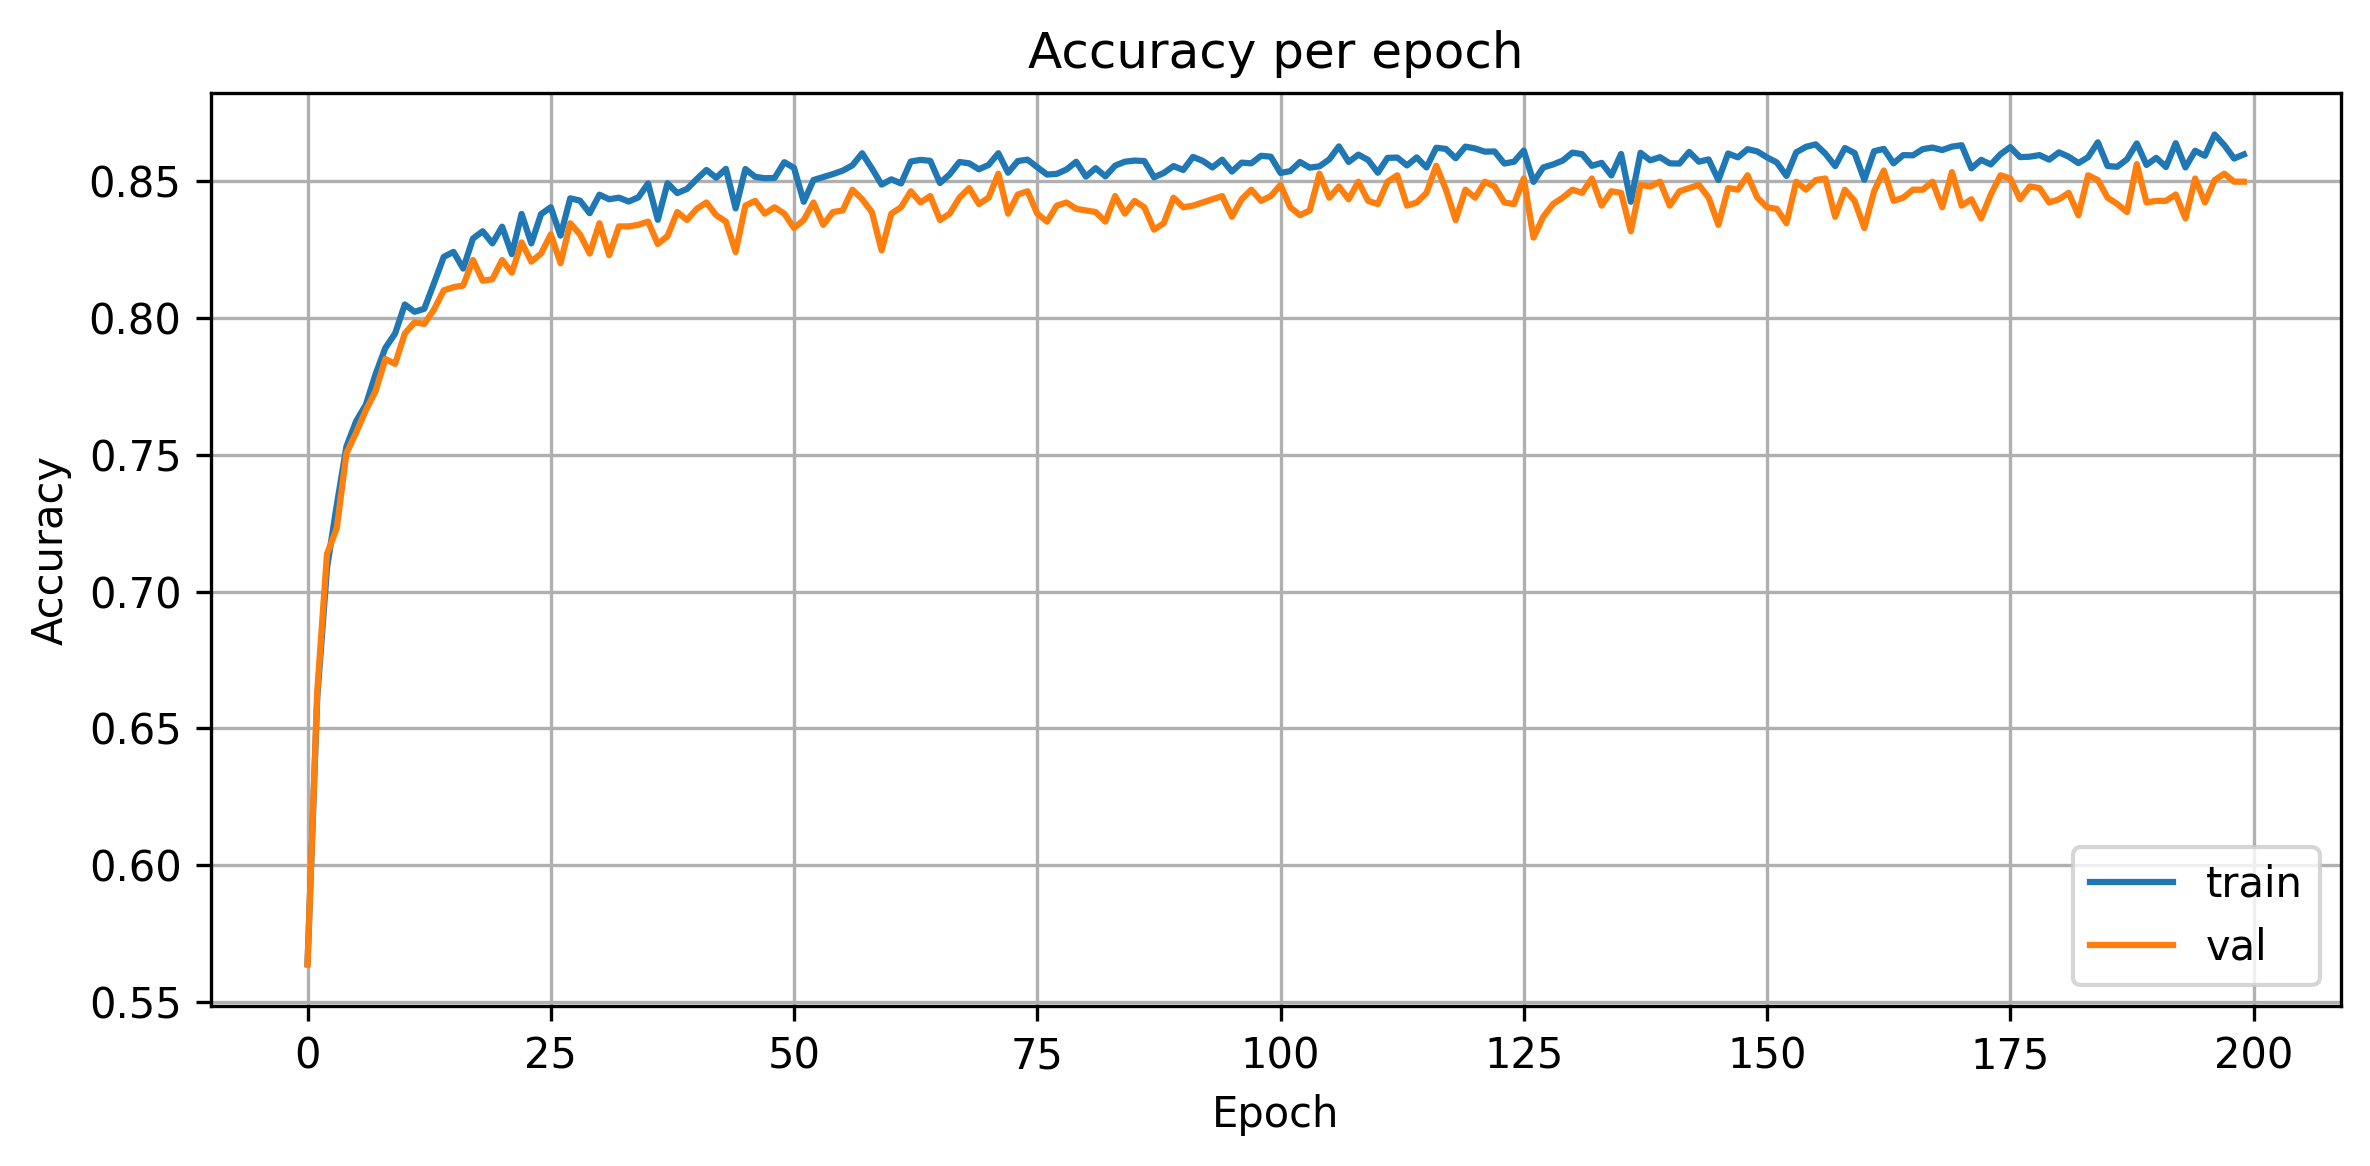
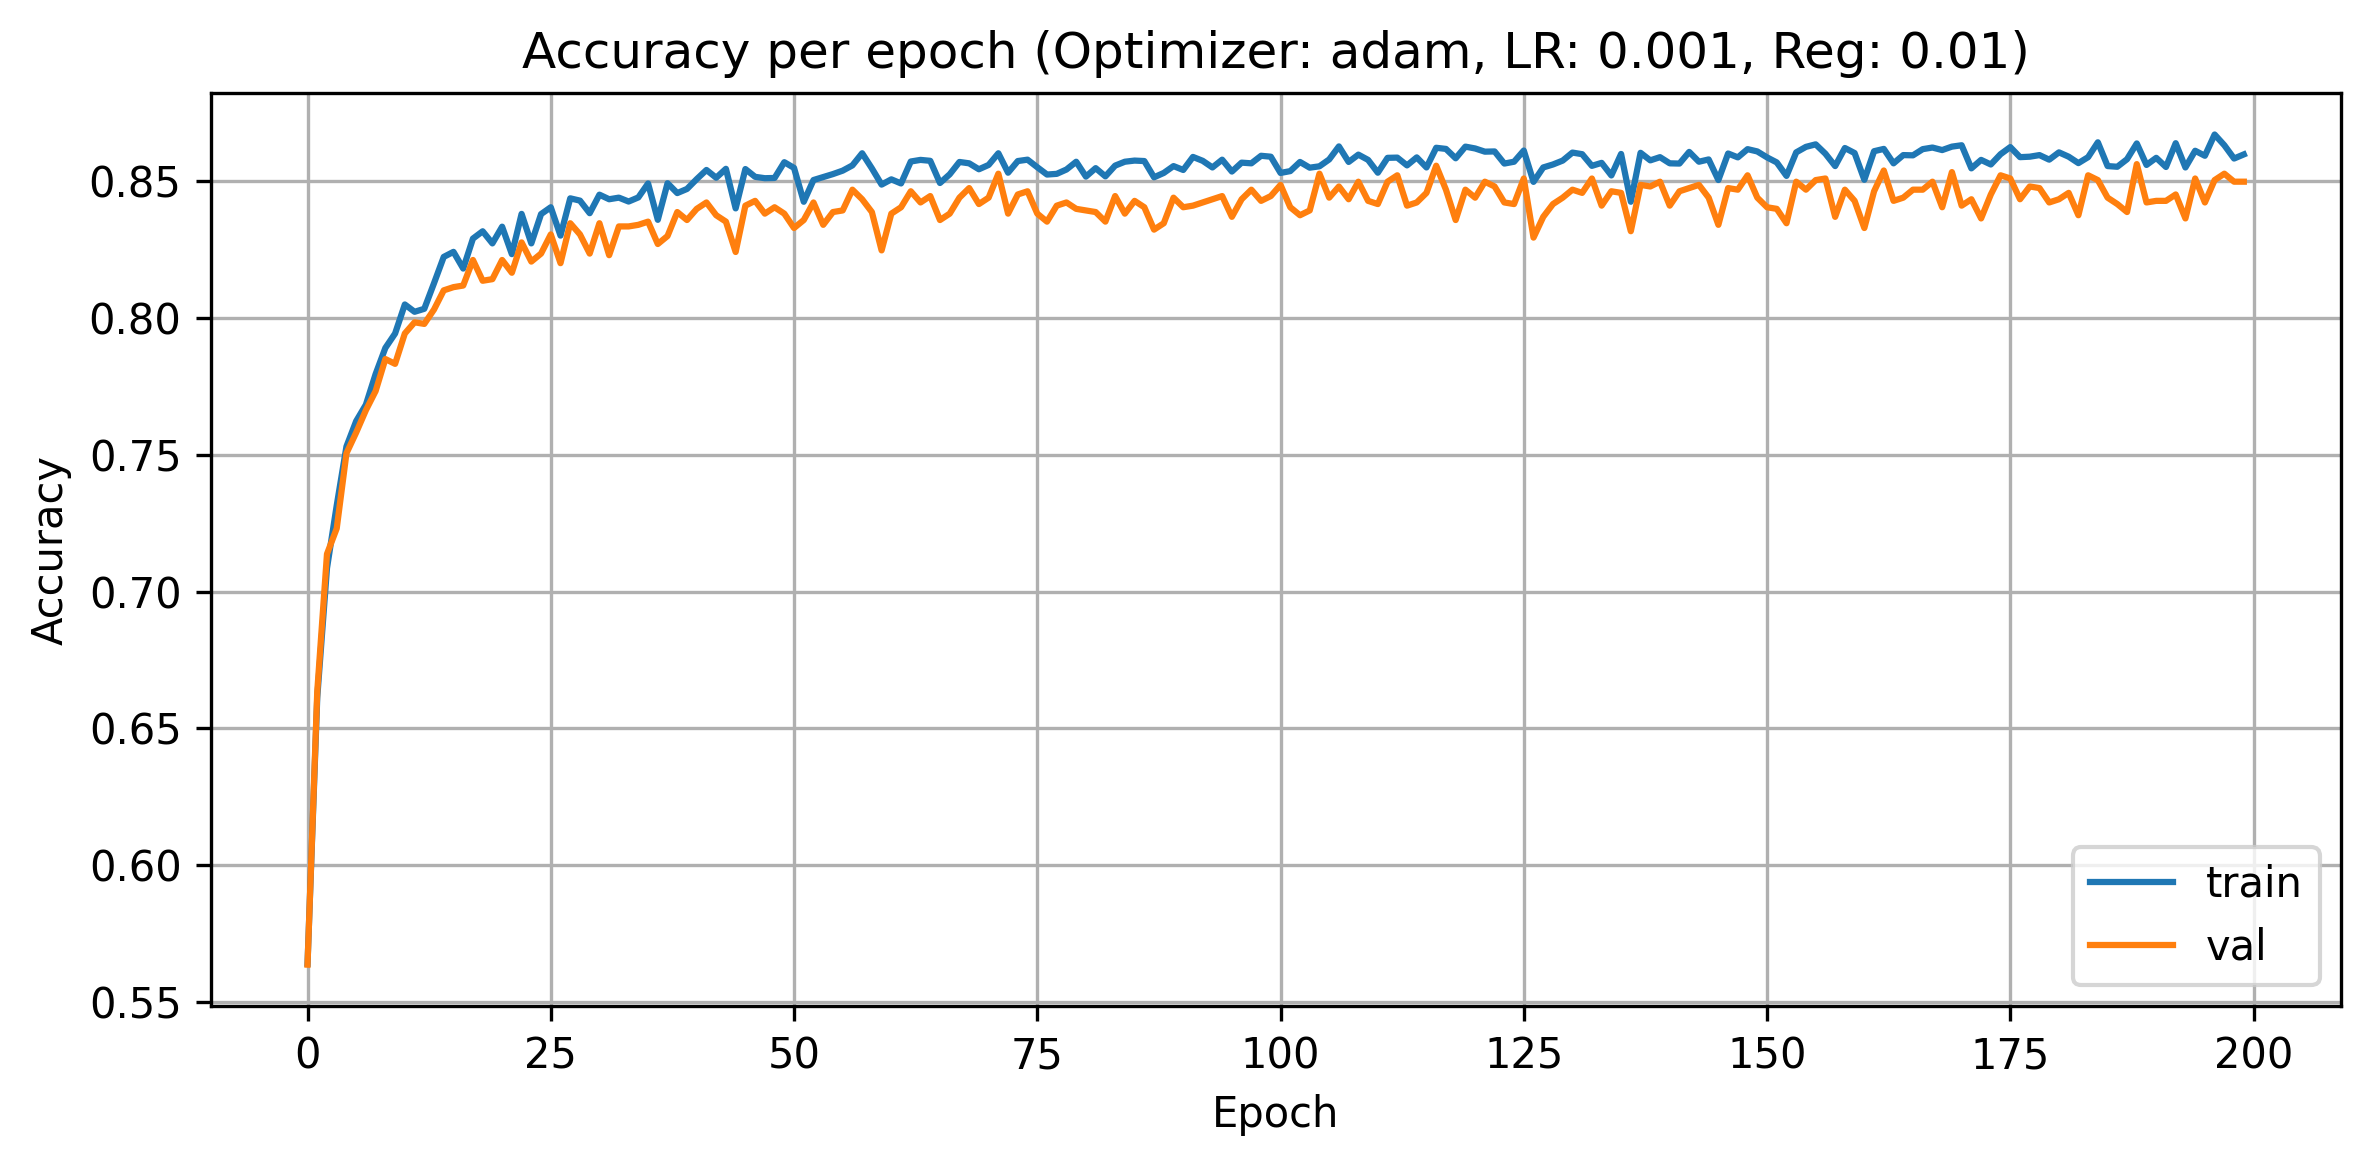
Final results
- Definitelynot perfect and the plots could use some work regarding styling and spacing.

Changed region(s): [[0.2186, 0.0309, 0.843, 0.0617]]

diff --git a/src/plot.py b/src/plot.py
@@ -345,9 +345,10 @@ def visualize_grid(Xs, ubound=255.0, padding=1):
         y1 += H + padding
     return grid
 
+
 def visualize_nn_weights(net, plots_dir):
     """
-    Visualize the learned weights of the neural network comprehensively.
+    ENHANCED: Visualize the learned weights with improved handling of narrow bottlenecks.
     Creates a combined visualization showing both first and second layer weights.
     """
     fig = plt.figure(figsize=(18, 14))
@@ -355,7 +356,6 @@ def visualize_nn_weights(net, plots_dir):
     # ============================================================
     # PLOT 1: First Layer Weights (Feature Detectors)
     # ============================================================
-    # Use a 4x4 grid, with top row spanning all columns
     ax1 = plt.subplot2grid((4, 4), (0, 0), colspan=4)
     W1 = net.params['W1']
     W1_reshaped = W1.reshape(3, 28, 28, -1).transpose(3, 1, 2, 0)
@@ -369,19 +369,27 @@ def visualize_nn_weights(net, plots_dir):
 
     # Add text explaining what we're seeing
     n_features = W1_reshaped.shape[0]
+    hidden_size = net.layers[1]
     ax1.text(0.5, -0.05,
-             f'Showing {n_features} learned feature detectors from input layer',
+             f'Showing {n_features} learned feature detectors from input layer (hidden size: {hidden_size})',
              transform=ax1.transAxes, ha='center', fontsize=10, style='italic')
 
     # Add title for second section
     fig.text(0.5, 0.42, 'Output Layer Weights (Class-Specific Patterns)',
              ha='center', fontsize=14, fontweight='bold')
-    fig.text(0.5, 0.39,
-             'Reconstructed input space patterns emphasized by each class',
-             ha='center', fontsize=10, style='italic')
+
+    # IMPROVED: Add warning if bottleneck is too narrow
+    if hidden_size < 100:
+        fig.text(0.5, 0.39,
+                 f'⚠ Note: Narrow hidden layer ({hidden_size} neurons) limits spatial reconstruction quality',
+                 ha='center', fontsize=10, style='italic', color='red')
+    else:
+        fig.text(0.5, 0.39,
+                 'Reconstructed input space patterns emphasized by each class',
+                 ha='center', fontsize=10, style='italic')
 
     # ============================================================
-    # PLOT 2: Second Layer Weights (Class-Specific) - 2 rows x 4 cols
+    # PLOT 2: Second Layer Weights - IMPROVED METHOD
     # ============================================================
     W2 = net.params['W2']  # Shape: (hidden_size, num_classes)
 
@@ -393,8 +401,19 @@ def visualize_nn_weights(net, plots_dir):
         # Get weights for this class from hidden layer
         class_weights = W2[:, i]
 
-        # Reshape back through W1 to see what each class emphasizes in input space
-        reconstructed = np.dot(net.params['W1'], class_weights)
+        # IMPROVED: Use top-k neurons weighted combination for better reconstruction
+        if hidden_size < 100:
+            # For narrow layers, use top contributing neurons
+            k = min(20, hidden_size)
+            top_indices = np.argsort(np.abs(class_weights))[-k:]
+
+            reconstructed = np.zeros(W1.shape[0])
+            for idx in top_indices:
+                reconstructed += class_weights[idx] * W1[:, idx]
+        else:
+            # For wider layers, use all neurons
+            reconstructed = np.dot(W1, class_weights)
+
         img = reconstructed.reshape(28, 28, 3)
 
         # Normalize for visualization
@@ -407,14 +426,17 @@ def visualize_nn_weights(net, plots_dir):
     plt.tight_layout(rect=[0, 0, 1, 0.96])
     _save_and_close(f"{plots_dir}/11_nn_learned_weights_comprehensive.png")
 
+
 def visualize_nn_weights_comparison(net, plots_dir):
     """
-    Create a direct comparison visualization matching the linear classifier format.
-    Shows only the output layer weights in the same 2x4 grid as linear classifiers.
+    ENHANCED: Create a direct comparison visualization matching the linear classifier format.
+    Shows only the output layer weights in the same 2x4 grid, with improved reconstruction.
     """
     fig, axes = plt.subplots(2, 4, figsize=(12, 6))
 
-    W2 = net.params['W2']  # Shape: (hidden_size, num_classes)
+    W1 = net.params['W1']  # (input_dim, hidden_size)
+    W2 = net.params['W2']  # (hidden_size, num_classes)
+    hidden_size = net.layers[1]
 
     for i in range(8):
         row, col = divmod(i, 4)
@@ -423,8 +445,19 @@ def visualize_nn_weights_comparison(net, plots_dir):
         # Get weights for this class
         class_weights = W2[:, i]
 
-        # Reconstruct what this class "sees" in input space
-        reconstructed = np.dot(net.params['W1'], class_weights)
+        # IMPROVED: Handle narrow bottlenecks better
+        if hidden_size < 100:
+            # Use weighted top-k approach
+            k = min(20, hidden_size)
+            top_indices = np.argsort(np.abs(class_weights))[-k:]
+
+            reconstructed = np.zeros(W1.shape[0])
+            for idx in top_indices:
+                reconstructed += class_weights[idx] * W1[:, idx]
+        else:
+            # Standard reconstruction for wider networks
+            reconstructed = np.dot(W1, class_weights)
+
         img = reconstructed.reshape(28, 28, 3)
 
         # Normalize and scale similar to linear classifier visualization
@@ -434,8 +467,11 @@ def visualize_nn_weights_comparison(net, plots_dir):
         ax.set_title(CLASS_NAMES[i], fontsize=10)
         ax.axis('off')
 
-    fig.suptitle("Neural Network Output Layer Weights (Class-Specific)",
-                 fontsize=14, fontweight='bold')
+    # IMPROVED: Add informative title
+    title = "Neural Network Output Layer Weights (Class-Specific)"
+    if hidden_size < 100:
+        title += f"\n(Narrow bottleneck: {hidden_size} neurons limits detail)"
+    fig.suptitle(title, fontsize=14, fontweight='bold')
 
     _save_and_close(f"{plots_dir}/11b_nn_weights_linear_comparison.png")
 
@@ -614,8 +650,8 @@ def plot_nn_hyperparameter_results(results_list, plots_dir):
 
 def plot_nn_hyperparameter_surfaces(results_list, plots_dir):
     """
-    Create hyperparameter surface plots for neural networks.
-    Shows LR vs Reg interaction for each optimizer.
+    ENHANCED: Create hyperparameter surface plots for neural networks with better data visibility.
+    Shows LR vs Reg interaction for each optimizer with larger markers and value labels.
     """
     optimizers = sorted(set(r['opt'] for r in results_list))
 
@@ -640,6 +676,11 @@ def plot_nn_hyperparameter_surfaces(results_list, plots_dir):
         y = np.array([r['reg'] for r in opt_results])
         z = np.array([r['val_acc'] * 100 for r in opt_results])
 
+        # Count unique values for grid info
+        unique_lrs = sorted(set(r['lr'] for r in opt_results))
+        unique_regs = sorted(set(r['reg'] for r in opt_results))
+        n_points = len(opt_results)
+
         # Create grid for interpolation
         log_x = np.log10(x)
         log_y = np.log10(y)
@@ -661,21 +702,27 @@ def plot_nn_hyperparameter_surfaces(results_list, plots_dir):
             vmax=min(z.max() + 5, 100)
         )
 
-        # Overlay scatter points
+        # ENHANCED: Larger scatter points with white edges
         sc = ax.scatter(log_x, log_y, c=z, cmap='plasma',
-                        edgecolor='black', s=100,
+                        edgecolor='white', s=300, linewidth=2,
                         vmin=max(z.min() - 5, 0),
-                        vmax=min(z.max() + 5, 100))
+                        vmax=min(z.max() + 5, 100),
+                        zorder=10)
+
+        # ENHANCED: Add value labels on each point
+        for i, (lx, ly, val) in enumerate(zip(log_x, log_y, z)):
+            ax.text(lx, ly, f'{val:.1f}',
+                    ha='center', va='center',
+                    fontsize=8, fontweight='bold',
+                    color='white' if val < 70 else 'black',
+                    zorder=11)
 
         # Highlight best point
         best_idx = np.argmax(z)
         ax.scatter(log_x[best_idx], log_y[best_idx],
-                   s=200, edgecolor='yellow', facecolor='none',
-                   linewidth=2, label=f'Best: {z[best_idx]:.2f}%')
-
-        # Get unique learning rates and regularizations for ticks
-        unique_lrs = sorted(set(r['lr'] for r in opt_results))
-        unique_regs = sorted(set(r['reg'] for r in opt_results))
+                   s=400, edgecolor='yellow', facecolor='none',
+                   linewidth=3, label=f'Best: {z[best_idx]:.2f}%',
+                   zorder=12)
 
         ax.set_xticks(np.log10(unique_lrs))
         ax.set_xticklabels([f'{lr:.0e}' for lr in unique_lrs], rotation=45)
@@ -685,13 +732,81 @@ def plot_nn_hyperparameter_surfaces(results_list, plots_dir):
         ax.set_xlabel('Learning Rate (log scale)')
         ax.set_ylabel('Regularization Strength (log scale)')
         ax.set_title(f'Optimizer: {opt}')
-        ax.legend()
+        ax.legend(loc='upper right')
         ax.grid(True, alpha=0.3)
+
+        # ENHANCED: Add grid size info
+        ax.text(0.02, 0.98, f'Grid: {len(unique_lrs)}×{len(unique_regs)} = {n_points} points',
+                transform=ax.transAxes,
+                verticalalignment='top',
+                bbox=dict(boxstyle='round', facecolor='white', alpha=0.8),
+                fontsize=9, zorder=15)
 
         # Add colorbar
         plt.colorbar(im, ax=ax, label='Validation Accuracy (%)')
 
     _save_and_close(f"{plots_dir}/07b_nn_hyperparameter_surfaces.png")
+
+
+def plot_nn_hyperparameter_grid_raw(results_list, plots_dir):
+    """
+    NEW: Show actual measured points without interpolation - honest visualization.
+    This complements the interpolated surface plots by showing exactly what was measured.
+    """
+    optimizers = sorted(set(r['opt'] for r in results_list))
+
+    fig, axes = plt.subplots(1, len(optimizers), figsize=(6 * len(optimizers), 5))
+    if len(optimizers) == 1:
+        axes = [axes]
+
+    for idx, opt in enumerate(optimizers):
+        ax = axes[idx]
+        opt_results = [r for r in results_list if r['opt'] == opt]
+
+        # Get unique values
+        lrs = sorted(set(r['lr'] for r in opt_results))
+        regs = sorted(set(r['reg'] for r in opt_results))
+
+        # Create matrix
+        matrix = np.full((len(regs), len(lrs)), np.nan)
+        for r in opt_results:
+            i = regs.index(r['reg'])
+            j = lrs.index(r['lr'])
+            matrix[i, j] = r['val_acc'] * 100
+
+        # Plot as heatmap (NO interpolation)
+        im = ax.imshow(matrix, cmap='plasma', aspect='auto',
+                       vmin=max(np.nanmin(matrix) - 5, 0),
+                       vmax=min(np.nanmax(matrix) + 5, 100))
+
+        # Proper tick labels
+        ax.set_xticks(range(len(lrs)))
+        ax.set_xticklabels([f'{lr:.0e}' for lr in lrs], rotation=45, ha='right')
+        ax.set_yticks(range(len(regs)))
+        ax.set_yticklabels([f'{reg:.0e}' for reg in regs])
+
+        # Annotate each cell with value
+        for i in range(len(regs)):
+            for j in range(len(lrs)):
+                if not np.isnan(matrix[i, j]):
+                    color = 'white' if matrix[i, j] < 70 else 'black'
+                    ax.text(j, i, f'{matrix[i, j]:.1f}',
+                            ha='center', va='center',
+                            color=color, fontweight='bold', fontsize=9)
+
+        # Highlight best cell
+        best_i, best_j = np.unravel_index(np.nanargmax(matrix), matrix.shape)
+        rect = plt.Rectangle((best_j - 0.5, best_i - 0.5), 1, 1,
+                             fill=False, edgecolor='yellow', linewidth=3)
+        ax.add_patch(rect)
+
+        ax.set_title(f'{opt.upper()}: Raw Measurements\n(No Interpolation)')
+        ax.set_xlabel('Learning Rate')
+        ax.set_ylabel('Regularization Strength')
+        plt.colorbar(im, ax=ax, label='Validation Accuracy (%)')
+
+    plt.tight_layout()
+    _save_and_close(f"{plots_dir}/07d_nn_hyperparameter_grid_raw.png")
 
 
 def plot_nn_hidden_size_surfaces(results_list, plots_dir):
@@ -800,7 +915,8 @@ def plot_nn_hidden_size_surfaces(results_list, plots_dir):
 
 def plot_nn_all_surfaces(results_list, plots_dir):
     """
-    Convenience function to create all NN hyperparameter surface plots.
+    ENHANCED: Convenience function to create all NN hyperparameter surface plots.
+    Now includes both interpolated and raw visualization.
 
     Args:
         results_list: List of dicts with keys 'hidden', 'lr', 'reg', 'opt', 'val_acc'
@@ -808,6 +924,7 @@ def plot_nn_all_surfaces(results_list, plots_dir):
     """
     print("Creating Neural Network hyperparameter surface plots...")
     plot_nn_hyperparameter_surfaces(results_list, plots_dir)
+    plot_nn_hyperparameter_grid_raw(results_list, plots_dir)  # NEW
     plot_nn_hidden_size_surfaces(results_list, plots_dir)
     print("Neural Network surface plots complete!")
 

diff --git a/src/config.py b/src/config.py
@@ -48,8 +48,8 @@ LINEAR_PRINT_EVERY = 10
 
 # Neural network hyperparameters for grid search
 NN_HIDDEN_SIZES = [50, 100, 200]
-NN_LEARNING_RATES = [0.001, 0.005, 0.01]
-NN_REGULARIZATIONS = [0.01, 0.05, 0.1]
+NN_LEARNING_RATES = [1e-4, 5e-4, 1e-3, 5e-3, 1e-2, 5e-2, 1e-1]
+NN_REGULARIZATIONS = [1e-4, 1e-3, 1e-2, 5e-2, 1e-1, 5e-1]
 NN_OPTIMIZERS = ['sgd', 'momentum', 'adam']
 NN_NUM_ITERS = 200
 NN_BATCH_SIZE = 256

diff --git a/plots/nn_optimization_R002/results_summary.md b/plots/nn_optimization_R002/results_summary.md
@@ -2,11 +2,11 @@
 
 **Experiment:** nn_optimization_R002
 
-**Date:** 2025-10-10T13:10
+**Date:** 2025-10-10T13:28
 
 
 ## Model Comparison
 
 | Model | Test Accuracy | Best Hyperparameters |
 |-------|---------------|---------------------|
-| nn | 82.87% | hidden_size=50, learning_rate=0.001, regularization=0.01, optimizer=adam |
+| nn | 88.07% | hidden_size=200, learning_rate=0.001, regularization=0.0001, optimizer=adam |
